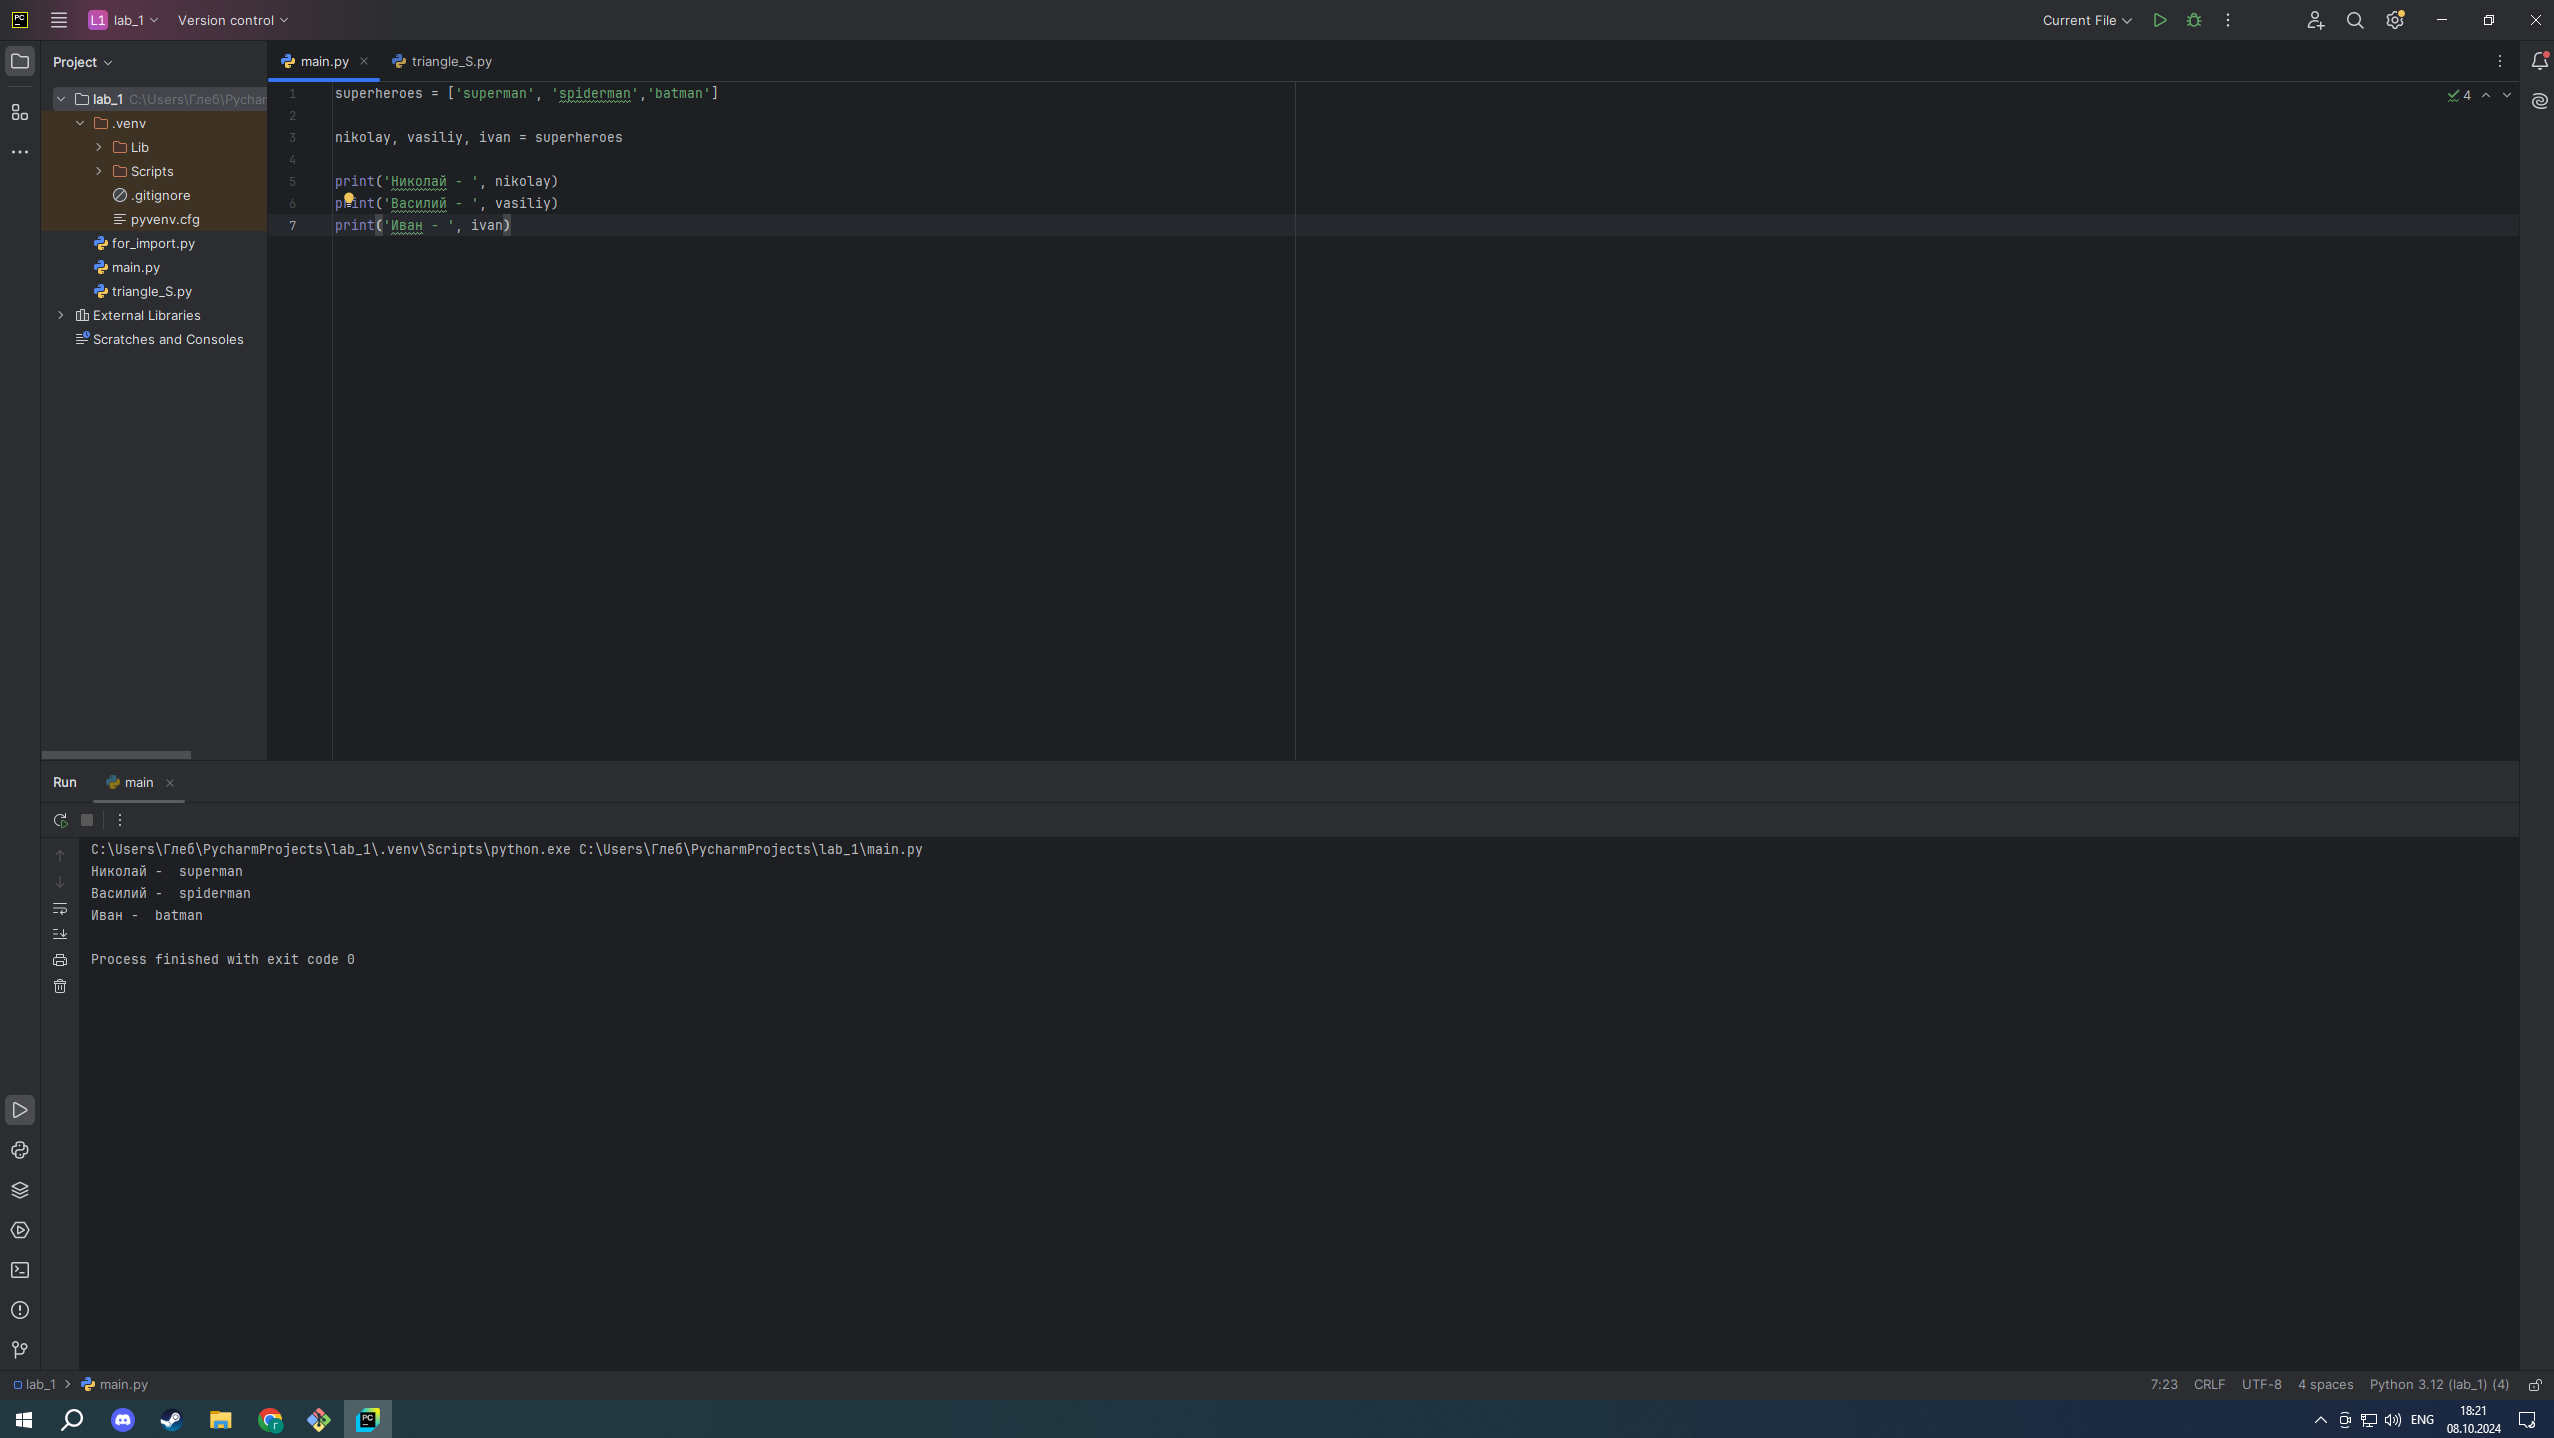
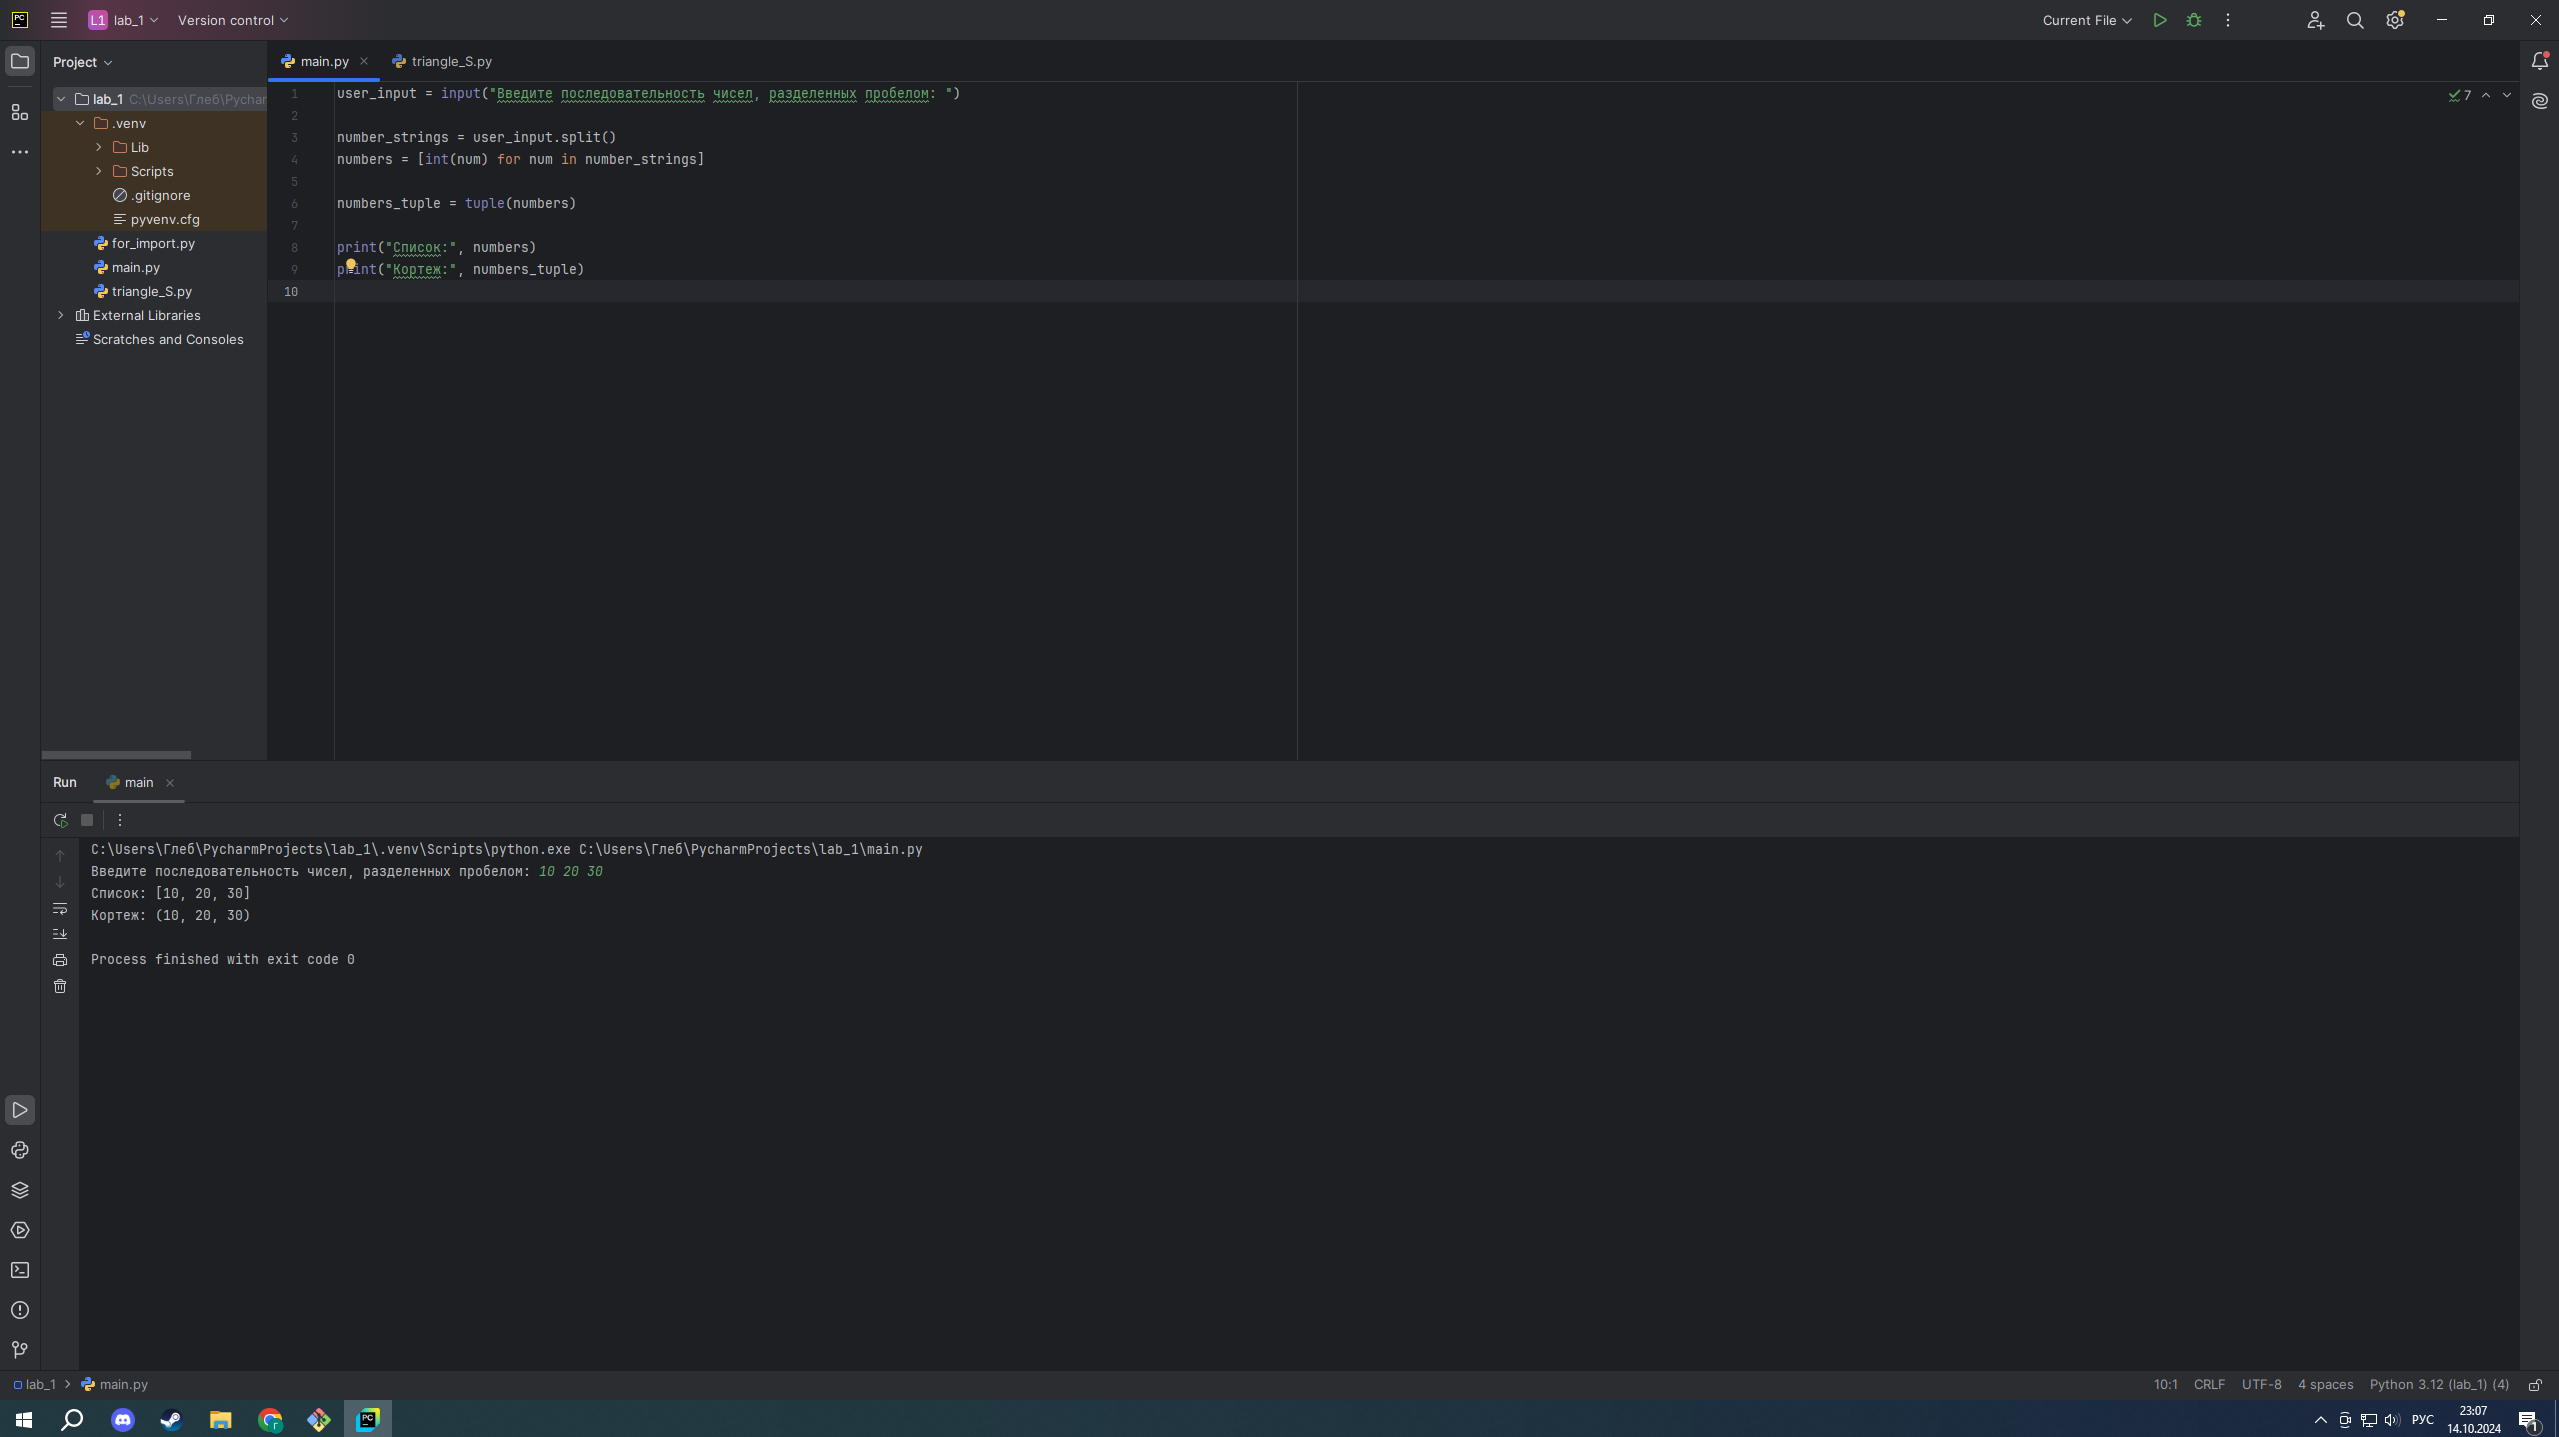
123

diff --git a/Sam4.py b/Sam4.py
@@ -1,15 +1,23 @@
-def update_grades(grades):
-    updated_grades = [4 if grade == 3 else grade for grade in grades if grade != 2]
-    return updated_grades
+def get_employee_timeframe(logs, employee_id):
 
-grades_list_1 = [2, 3, 4, 5, 3, 4, 5, 2, 2, 5, 3, 4, 3, 5, 4]
-grades_list_2 = [4, 2, 3, 5, 3, 5, 4, 2, 2, 5, 4, 3, 5, 3, 4]
-grades_list_3 = [5, 4, 3, 3, 4, 3, 3, 5, 5, 3, 3, 3, 3, 4, 4]
+    first_index = -1
+    second_index = -1
 
-updated_list_1 = update_grades(grades_list_1)
-updated_list_2 = update_grades(grades_list_2)
-updated_list_3 = update_grades(grades_list_3)
+    for index, value in enumerate(logs):
+        if value == employee_id:
+            if first_index == -1:
+                first_index = index
+            elif second_index == -1:
+                second_index = index
+                break
 
-print("Обновленный список 1:", updated_list_1)
-print("Обновленный список 2:", updated_list_2)
-print("Обновленный список 3:", updated_list_3)
+    if first_index == -1:
+        return ()
+    if second_index == -1:
+        return logs[first_index:]
+    return logs[first_index:second_index + 1]
+
+
+print(get_employee_timeframe((1, 2, 3), 8))
+print(get_employee_timeframe((1, 8, 3, 4, 8, 8, 9, 2), 8))
+print(get_employee_timeframe((1, 2, 8, 5, 1, 2, 9), 8))

diff --git a/Sam1.py b/Sam1.py
@@ -1,21 +1,9 @@
-check_list = [
-    8734, 2345, 8201, 6621, 9999, 1234, 5678, 8201, 8888, 4321, 3365,
-    1478, 9865, 5555, 7777, 9998, 1111, 2222, 3333, 4444, 5556, 6666,
-    5410, 7778, 8889, 4445, 1439, 9604, 8201, 3365, 7502, 3016, 4928,
-    5837, 8201, 2643, 5017, 9682, 8530, 3250, 7193, 9051, 4506, 1987,
-    3365, 5410, 7168, 7777, 9865, 5678, 8201, 4445, 3016, 4506, 4506
-]
+user_input = input("Введите последовательность чисел, разделенных пробелом: ")
 
-total_checks = len(check_list)
+number_strings = user_input.split()
+numbers = [int(num) for num in number_strings]
 
-unique_workers = set(check_list)
-num_unique_workers = len(unique_workers)
+numbers_tuple = tuple(numbers)
 
-from collections import Counter
-visits = Counter(check_list)
-
-most_frequent_worker, most_visits = visits.most_common(1)[0]
-
-print(f"Количество выданных чеков: {total_checks}")
-print(f"Количество разных людей, посетивших ресторан: {num_unique_workers}")
-print(f"Работник, посетивший ресторан больше всех раз: {most_frequent_worker} ({most_visits} раз)")
+print("Список:", numbers)
+print("Кортеж:", numbers_tuple)

diff --git a/Sam5.py b/Sam5.py
@@ -1,30 +1,19 @@
-def create_set_from_list(lst):
-    count_dict = {}
+def unique_sorted_items(purchases):
+    item_count = {}
 
-    for num in lst:
-        if num in count_dict:
-            count_dict[num] += 1
+    for item in purchases:
+        if item in item_count:
+            item_count[item] += 1
         else:
-            count_dict[num] = 1
+            item_count[item] = 1
 
-    result_set = set()
+    sorted_items = sorted(item_count.keys())
 
-    for num, count in count_dict.items():
-        result_set.add(num)
-        for i in range(1, count + 1):
-            result_set.add(str(num) * i)
+    result = tuple((item, item_count[item]) for item in sorted_items)
 
-    return result_set
+    return result
 
 
-list_1 = [1, 1, 3, 3, 1]
-list_2 = [5, 5, 5, 5, 5, 5, 5]
-list_3 = [2, 2, 1, 2, 2, 5, 6, 7, 1, 3, 2, 2]
-
-set_1 = create_set_from_list(list_1)
-set_2 = create_set_from_list(list_2)
-set_3 = create_set_from_list(list_3)
-
-print(set_1)
-print(set_2)
-print(set_3)
+print(unique_sorted_items(['apple', 'banana', 'apple', 'orange', 'banana', 'kiwi']))
+print(unique_sorted_items(['carrot', 'beet', 'carrot', 'potato', 'beet', 'carrot']))
+print(unique_sorted_items(['dog', 'cat', 'dog', 'mouse', 'cat', 'cat']))

diff --git a/Sam3.py b/Sam3.py
@@ -1,19 +1,16 @@
-import math
+from collections import Counter
 
-one = [12, 25, 3, 48, 71]
-two = [5, 18, 40, 62, 98]
-three = [4, 21, 37, 56, 84]
+def top_three_digits(digit_string):
+    count = Counter(digit_string)
 
-max_sides = [max(one), max(two), max(three)]
-min_sides = [min(one), min(two), min(three)]
+    most_common = count.most_common(3)
 
-def heron_area(sides):
-    s = sum(sides) / 2
-    area = math.sqrt(s * (s - sides[0]) * (s - sides[1]) * (s - sides[2]))
-    return area
+    result = {int(key): value for key, value in most_common}
 
-max_triangle_area = heron_area(max_sides)
-min_triangle_area = heron_area(min_sides)
+    return dict(sorted(result.items()))
 
-print(f"Площадь треугольника с максимальными сторонами: {max_triangle_area:.2f}")
-print(f"Площадь треугольника с минимальными сторонами: {min_triangle_area:.2f}")
+
+digit_string = "123456789012345678901234567890"
+result = top_three_digits(digit_string)
+print(result)
+

diff --git a/Sam2.py b/Sam2.py
@@ -1,15 +1,14 @@
-results = [
-    10.2, 14.8, 19.3, 22.7, 12.5, 33.1, 38.9, 21.6, 26.4, 17.1,
-    30.2, 35.7, 16.9, 27.8, 24.5, 16.3, 18.7, 31.9, 12.9, 37.4
-]
+def remove_first_occurrence(tpl, value):
+    lst = list(tpl)
 
-best_results = sorted(results)[:3]
+    try:
+        lst.remove(value)
+    except ValueError:
+        pass
 
-worst_results = sorted(results)[-3:]
+    return tuple(lst)
 
-results_above_10 = [result for result in results if result >= 10]
 
-print(f"Три лучшие результата: {best_results}")
-print(f"Три худшие результата: {worst_results}")
-print(f"Все результаты начиная с 10: {results_above_10}")
-
+print(remove_first_occurrence((1, 2, 3), 1))
+print(remove_first_occurrence((1, 2, 3, 1, 2, 3, 4, 5, 2, 3, 4, 2, 4, 2), 3))
+print(remove_first_occurrence((2, 4, 6, 6, 4, 2), 9))

diff --git a/Lab1.py b/Lab1.py
@@ -1,4 +1,17 @@
-set_1 = {'White','Black','Red','Pink'}
-set_2 = {'Red','Green','Blue','Red'}
+request = int(input('Введите номер кабинета: '))
 
-print(set_1 - set_2)
+dictionary = {
+    101: {'key': 1234 , 'access': True},
+    102: {'key': 1337 , 'access': True},
+    103: {'key': 8943 , 'access': True},
+    104: {'key': 5555 , 'access': True},
+    None: {'key': None , 'access': False},
+
+}
+
+response = dictionary.get(request)
+if not response:
+    response = dictionary(None)
+key = response.get('key')
+access = response.get('access')
+print(key, access)

diff --git a/Lab5.py b/Lab5.py
@@ -1,7 +1,9 @@
-def useless(lst):
-    return max(lst) / len(lst)
+def tuple_sort(tpl):
+    for elm in tpl:
+        if not isinstance(elm, int):
+            return tpl
+    return tuple(sorted(tpl))
 
-
-print(useless([3, 5, 7, 3, 33]))
-print(useless([-12.5, 54, 77.3, 0, -36, 98.2, -63, 21.7, 47, -89.6]))
-print(useless([-25.8, 86, 12.5, -56, 73.2, 0, 43, -91.5, 65.9, -7]))
+if __name__ == '__main__':
+    print(tuple_sort((5, 5, 3, 1, 9)))
+    print(tuple_sort((5, 5, 2.1, '1', 9)))

diff --git a/Lab2.py b/Lab2.py
@@ -1,5 +1,12 @@
-a = set('abcdefg')
-print(a)
-for i in range(1, 5):
-    a.add(i)
-print(a)
+from pprint import pprint
+
+my_dict = {'first': 'so easy'}
+
+
+def dict_maker(**kwargs):
+    my_dict.update(**kwargs)
+
+
+dict_maker(a1 = 1, a2 = 20, a3 = 54, a4 = 13)
+dict_maker(name = 'Михаил', age = 31, weight = 70, eyes_color = 'blue')
+pprint(my_dict)

diff --git a/Lab4.py b/Lab4.py
@@ -1,2 +1,9 @@
-a = [12, 54, 32, 57, 843, 2346, 765, 75, 25, 234, 756, 23]
-print(a[2:6])
+def personal_info(name, age, company = 'unnamed'):
+    print(f"Имя: {name} Возраст: {age} Компания: {company}")
+
+
+tom = ("Григорий", 22)
+personal_info(*tom)
+
+bob = ("Георгий", 41, "Yandex")
+personal_info(*bob)

diff --git a/Lab3.py b/Lab3.py
@@ -1,9 +1,4 @@
-def replace(input_list):
-    memory = input_list[0]
-    input_list[0] = input_list[-1]
-    input_list[-1] = memory
-
-    return input_list
-
-
-print(replace([1, 2, 3, 4, 5]))
+input_string = 'HelloWorld'
+result = tuple(input_string)
+print(result)
+print(list(result))
